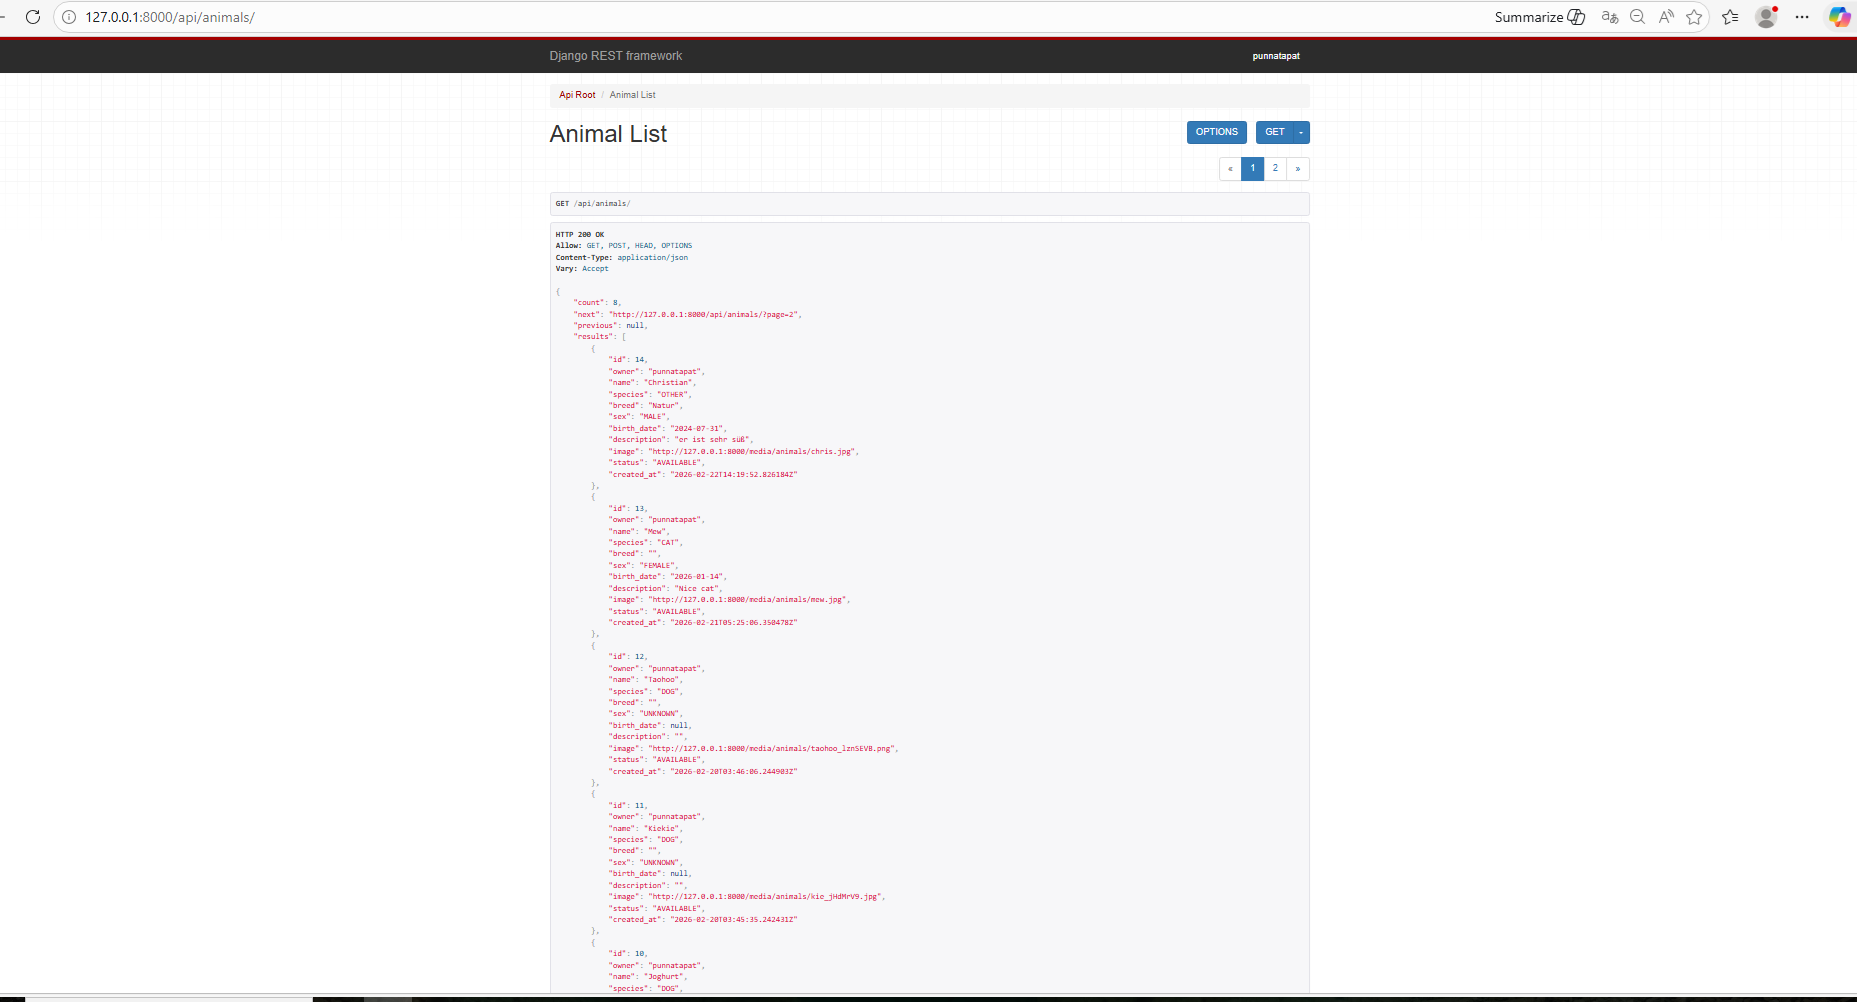
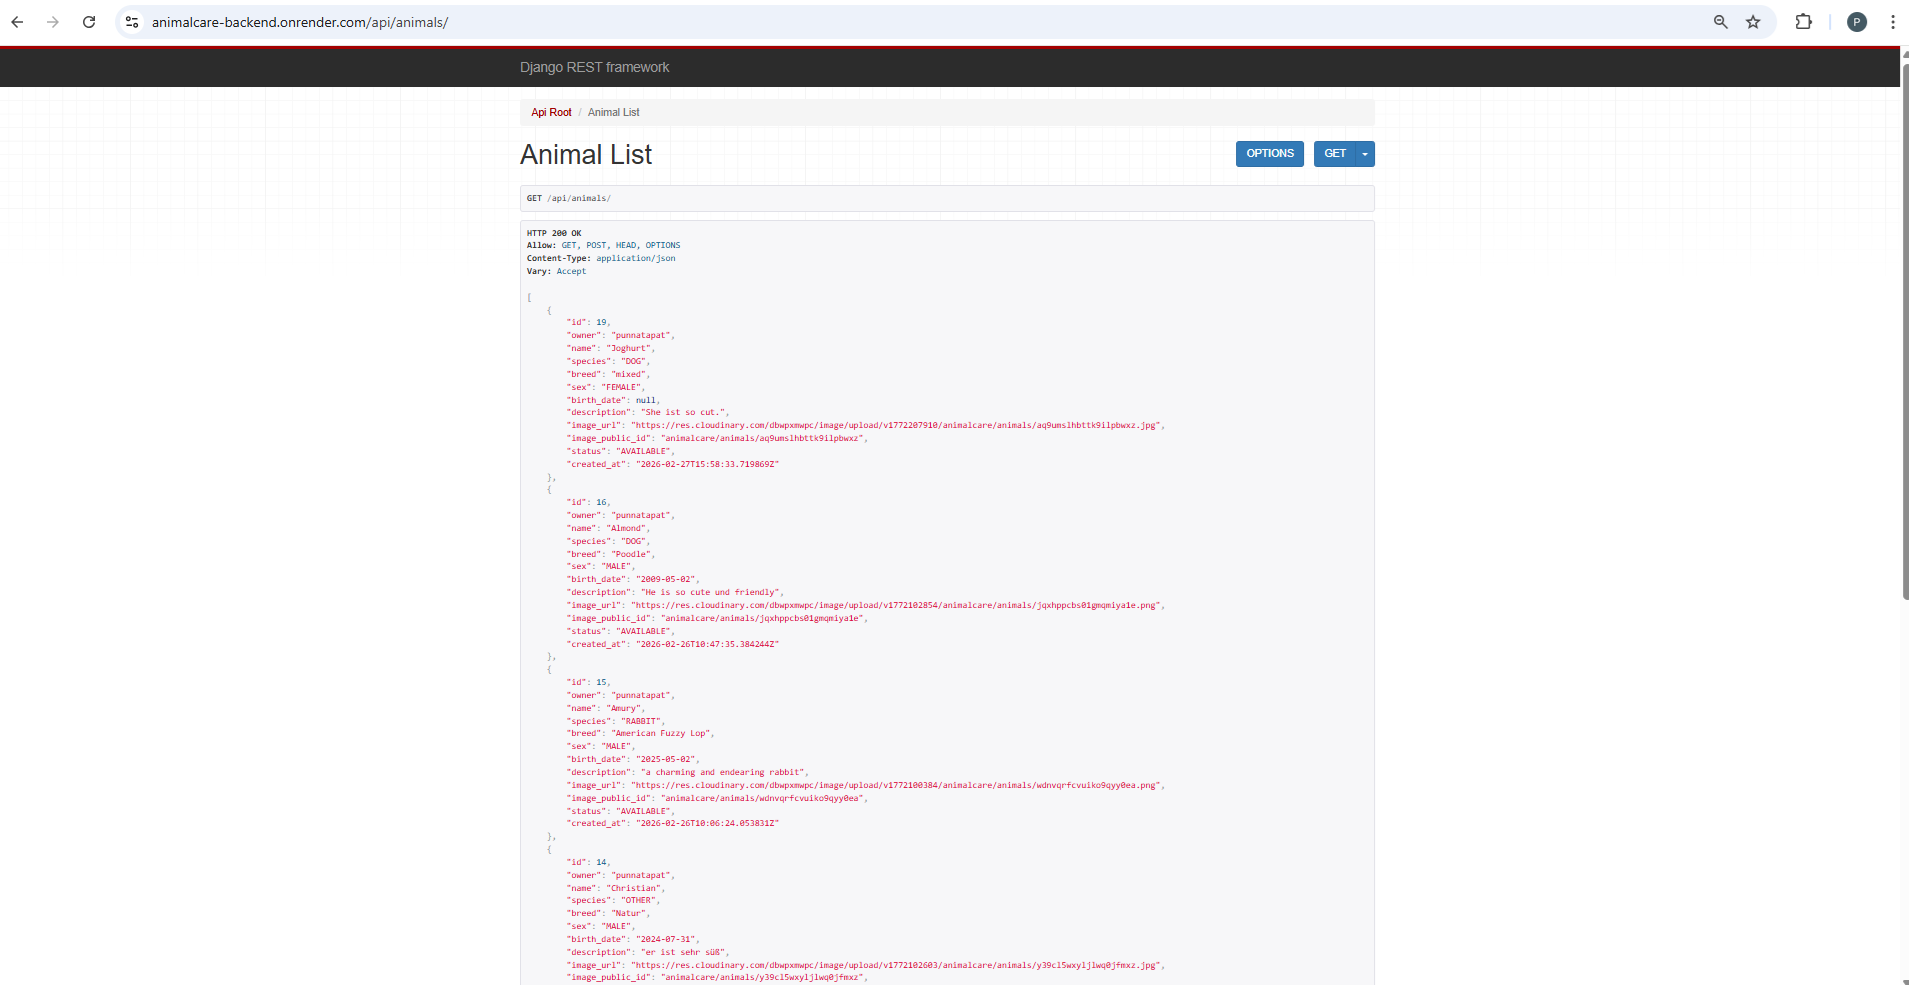
update production api screenshot

diff --git a/README.md b/README.md
@@ -23,7 +23,21 @@ Auch wenn sie heute nicht mehr bei mir sind, wollte ich ihnen mit dieser kleinen
 
 ---
 
+## 🌍 Live Demo
+
+Frontend (Netlify):  
+https://visionary-tapioca-be6cbf.netlify.app
+
+Backend API (Render):  
+https://animalcare-backend.onrender.com/api/animals/
+
 ---
+
+## 🏗 System Architecture
+
+Frontend: Angular (Netlify)  
+Backend: Django REST Framework (Render)  
+Image Storage: Cloudinary
 
 ## ✨ Funktionen & Features
 
@@ -53,9 +67,9 @@ Auch wenn sie heute nicht mehr bei mir sind, wollte ich ihnen mit dieser kleinen
 
 Dieses Backend ist für Production Deployment vorbereitet.
 
-## 🌍 Live API
+## 🌍 Live Deployment
 
-The backend API is deployed on Render.
+### Backend API (Render)
 
 Base URL:
 
@@ -64,6 +78,12 @@ https://animalcare-backend.onrender.com
 Example endpoint:
 
 https://animalcare-backend.onrender.com/api/animals/
+
+### Frontend Application (Netlify)
+
+https://visionary-tapioca-be6cbf.netlify.app
+
+---
 
 ### Verwendete Technologien
 
@@ -87,6 +107,10 @@ CLOUDINARY_API_SECRET=...
 ---
 
 ## 📜 Update-Historie & Projektfortschritt
+
+### ✅ 04.03.2026 – Production Deployment (Render)
+
+- CORS configuration updated to allow Netlify frontend
 
 ### ✅ 04.03.2026 – Production Deployment (Render)
 
@@ -231,7 +255,7 @@ Combined filters
 | Methode    | Endpoint             | Beschreibung                                                     |
 | :--------- | :------------------- | :--------------------------------------------------------------- |
 | **GET**    | `/api/animals/`      | Liste aller Tiere (mit Search/Filter)                            |
-| **POST**   | `/api/animals/`      | Neues Tier erstellen                                             |
+| **POST**   | `/api/token/`        | User Login - returns Access & Refresh Token                      |
 | **GET**    | `/api/animals/{id}/` | Einzelnes Tier abrufen                                           |
 | **DELETE** | `/api/animals/{id}/` | Tier löschen                                                     |
 | **PUT**    | `/api/animals/{id}/` | Tier aktualisieren                                               |
